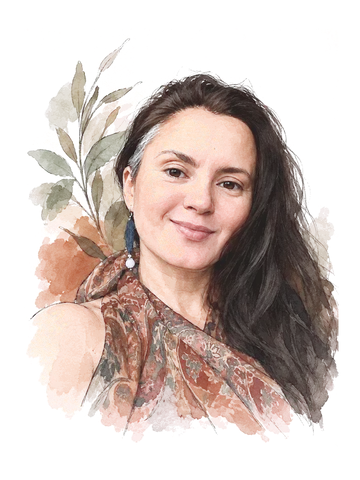
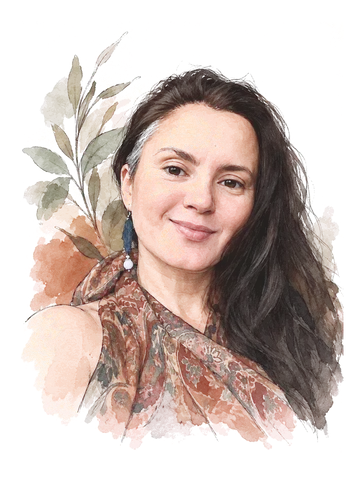
Портрет Ксении: масштаб 91%

diff --git a/index.html b/index.html
@@ -274,7 +274,7 @@
   </div>
   <div class="hosts">
     <article class="host">
-      <img src="img/ph-kseniya-360.webp?v=2" srcset="img/ph-kseniya-360.webp?v=2 360w, img/ph-kseniya-720.webp?v=2 720w" sizes="(min-width: 1160px) 340px, (min-width: 700px) 45vw, 90vw" width="360" height="480" alt="Акварельный портрет Ксении Телегиной" loading="lazy" decoding="async">
+      <img src="img/ph-kseniya-360.webp?v=3" srcset="img/ph-kseniya-360.webp?v=3 360w, img/ph-kseniya-720.webp?v=3 720w" sizes="(min-width: 1160px) 340px, (min-width: 700px) 45vw, 90vw" width="360" height="480" alt="Акварельный портрет Ксении Телегиной" loading="lazy" decoding="async">
       <div class="host-name">
         <h3 class="hd">Ксения Телегина</h3>
         <p class="host-role">Йога и медитация · внимание, дыхание, настоящий момент</p>

diff --git a/variant-a.html b/variant-a.html
@@ -289,7 +289,7 @@
   </div>
   <div class="hosts">
     <article class="host">
-      <img src="img/ph-kseniya-360.webp?v=2" srcset="img/ph-kseniya-360.webp?v=2 360w, img/ph-kseniya-720.webp?v=2 720w" sizes="(min-width: 1160px) 340px, (min-width: 700px) 45vw, 90vw" width="360" height="480" alt="Акварельный портрет Ксении Телегиной" loading="lazy" decoding="async">
+      <img src="img/ph-kseniya-360.webp?v=3" srcset="img/ph-kseniya-360.webp?v=3 360w, img/ph-kseniya-720.webp?v=3 720w" sizes="(min-width: 1160px) 340px, (min-width: 700px) 45vw, 90vw" width="360" height="480" alt="Акварельный портрет Ксении Телегиной" loading="lazy" decoding="async">
       <div class="host-name">
         <h3 class="hd">Ксения Телегина</h3>
         <p class="host-role">Йога и медитация · внимание, дыхание, настоящий момент</p>

diff --git a/variant-b.html b/variant-b.html
@@ -276,7 +276,7 @@
   </div>
   <div class="hosts">
     <article class="host">
-      <img src="img/ph-kseniya-360.webp?v=2" srcset="img/ph-kseniya-360.webp?v=2 360w, img/ph-kseniya-720.webp?v=2 720w" sizes="(min-width: 1160px) 340px, (min-width: 700px) 45vw, 90vw" width="360" height="480" alt="Акварельный портрет Ксении Телегиной" loading="lazy" decoding="async">
+      <img src="img/ph-kseniya-360.webp?v=3" srcset="img/ph-kseniya-360.webp?v=3 360w, img/ph-kseniya-720.webp?v=3 720w" sizes="(min-width: 1160px) 340px, (min-width: 700px) 45vw, 90vw" width="360" height="480" alt="Акварельный портрет Ксении Телегиной" loading="lazy" decoding="async">
       <div class="host-name">
         <h3 class="hd">Ксения Телегина</h3>
         <p class="host-role">Йога и медитация · внимание, дыхание, настоящий момент</p>

diff --git a/variant-c.html b/variant-c.html
@@ -266,7 +266,7 @@
   </div>
   <div class="hosts">
     <article class="host">
-      <img src="img/ph-kseniya-360.webp?v=2" srcset="img/ph-kseniya-360.webp?v=2 360w, img/ph-kseniya-720.webp?v=2 720w" sizes="(min-width: 1160px) 340px, (min-width: 700px) 45vw, 90vw" width="360" height="480" alt="Акварельный портрет Ксении Телегиной" loading="lazy" decoding="async">
+      <img src="img/ph-kseniya-360.webp?v=3" srcset="img/ph-kseniya-360.webp?v=3 360w, img/ph-kseniya-720.webp?v=3 720w" sizes="(min-width: 1160px) 340px, (min-width: 700px) 45vw, 90vw" width="360" height="480" alt="Акварельный портрет Ксении Телегиной" loading="lazy" decoding="async">
       <div class="host-name">
         <h3 class="hd">Ксения Телегина</h3>
         <p class="host-role">Йога и медитация · внимание, дыхание, настоящий момент</p>
